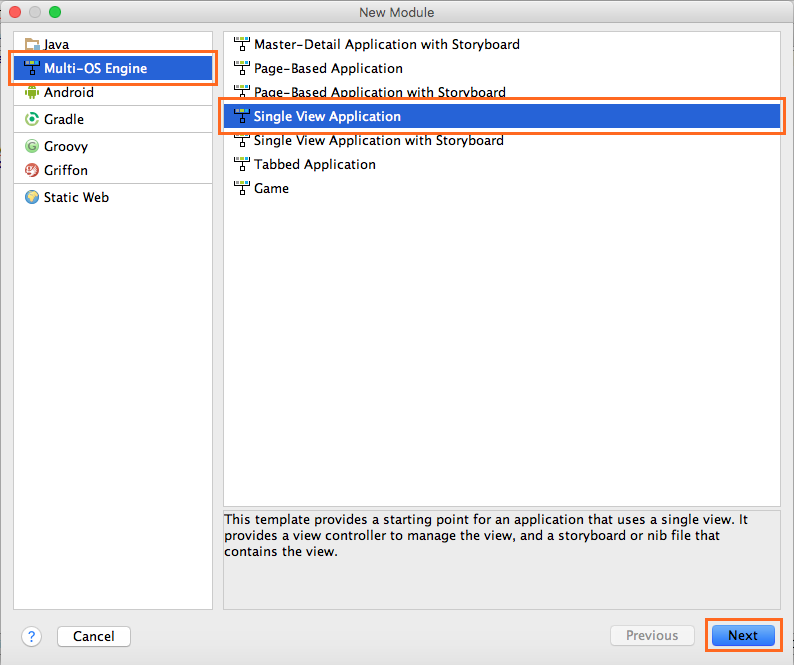
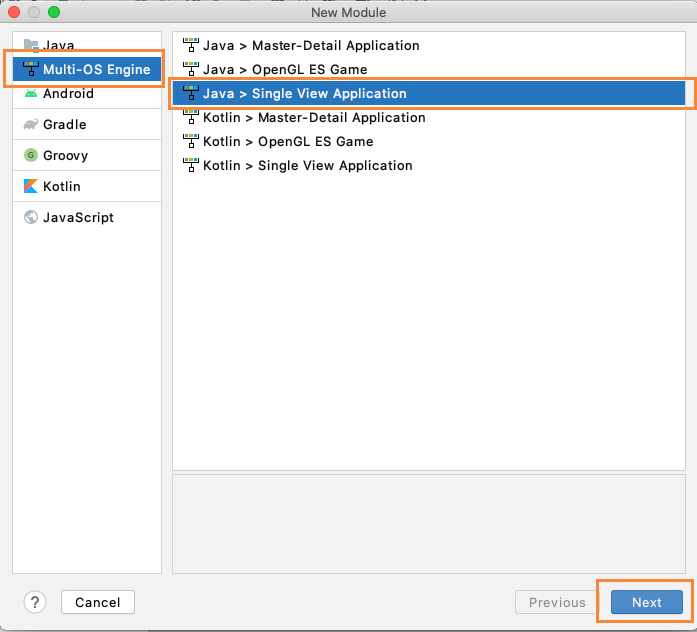
Update instructions of installation and hello world

Changed region(s): [[0.0, 0.0, 1.0, 1.0], [0.241, 0.7215, 0.9641, 0.8418]]

diff --git a/source/multi-os-engine/3_getting_started/1_hello_world_app/hello_world_app.rst b/source/multi-os-engine/3_getting_started/1_hello_world_app/hello_world_app.rst
@@ -57,27 +57,29 @@ Creating an Android App Module
 Creating a Multi-OS Engine App Module
 -------------------------------------
 
-1. Right click anywhere inside the Project tab on the left side. This creates the module in the root of the Android project. Choose New and Multi-OS Engine Module.
+1. Right click anywhere inside the Project tab on the left side. This creates the module in the root of the Android project. Choose New and New Module.
 
 .. image:: images/add_module.png
 
-2. There are seven available templates: 
+.. note::
+
+	If you are using Android Studio and no "New Module" dialog popped up, make sure you did not install any Kotlin plugin update and use the Kotlin plugin bundled with the Android Studio. You could check this by openning the Plugins settings and see if there is Kotlin plugin under the "Downloaded" category. If so, uninstall it and restart the IDE to use the bundled version instead.
+
+    .. image:: images/uninstall_kotlin.png
+
+2. There are six available templates: 
 
 .. image:: images/modules.png
 
 •	Master-Detail Application with storyboard template provides a starting point for a master-detail app. It provides a user interface configured with a navigation controller to display a list of items and also a split view on iPad devices.
-•	Page-Based Application template provides a starting point for a page-based app that uses a page view controller.
-•	Page-Based Application with storyboard template provides a starting point for a page-based app that uses a page view controller.
 •	Single-View Application template provides a starting point for an app that uses a single view. It provides a view controller to manage the view, and a storyboard or nib file that contains the view.
-•	Single-View Application with storyboard template provides a starting point for an app that uses a single view. It provides a view controller to manage the view, and a storyboard or nib file that contains the view.
-•	Tabbed Application template provides a starting point for an app that uses a tab bar. It provides a user interface configured with a tab bar controller, and view controllers for the tab bar items.
 •	Game template provides a starting point for games.
 
-These templates mirror the standard Xcode templates for iOS and have the same names as the corresponding templates in Xcode. Some of these templates use storyboards, while others use a generated storyboard from .ixml files. Using these templates, you can see how your Apple Objective-C* project migrates to a Multi-OS Engine solution: the plug-in replaces all Objective-C components with Java analogues when possible.
+These templates mirror the standard Xcode templates for iOS and have the same names as the corresponding templates in Xcode. Using these templates, you can see how your Apple Objective-C* project migrates to a Multi-OS Engine solution: the plug-in replaces all Objective-C components with Java analogues when possible.
 
 Select the template which fits your needs (such as Single-View Application) and press Next.
 
-3. In the next window, create an Xcode project. After you create the project you can open it in Xcode, for example, if you would like to use an Xcode storyboard to design your native user interface. Specify the Xcode Project Name, Product Name (app name), Organization and Company Identifier.
+3. In the next window, create an Xcode project. After you create the project you can open it in Xcode, for example, if you would like to use an Xcode storyboard to design your native user interface. Specify the Project Name (app name), Package Name (where your Java code belongs to), Organization Name and Identifier.
 
 .. image:: images/xcode_settings.png
 
@@ -168,7 +170,7 @@ Building an IPA is currently possible from the command line using Gradle. In the
 
 The IPA file will be created in the ``build/`` folder.
 
-For more information about the Multi-OS Engine Gradle plugin, please refer to the `plugin documentation <https://github.com/multi-os-engine/moe-plugin-gradle>`_.
+For more information about the Multi-OS Engine Gradle plugin, please refer to the `plugin documentation <https://github.com/multi-os-engine-community/moe-plugin-gradle>`_.
 
 .. toctree::
     :maxdepth: 1

diff --git a/source/multi-os-engine/3_getting_started/1_installation/installation.rst b/source/multi-os-engine/3_getting_started/1_installation/installation.rst
@@ -27,26 +27,14 @@ For the OSS build from GitHub:
 
 .. note::
 
-	The Multi-OS Engine sample location changed for the open source SDK. The `old samples repository <https://github.com/moe-java-samples>`_ is not updated anymore and will not work with the new SDK. You may find the updated samples `here (Java) <https://github.com/multi-os-engine/moe-samples-java>`_ and `here (Kotlin) <https://github.com/multi-os-engine/moe-samples-kotlin>`_.
+	The Multi-OS Engine sample location changed for the open source SDK. The `old samples repository <https://github.com/moe-java-samples>`_ is not updated anymore and will not work with the new SDK. You may find the updated samples `here (Java) <https://github.com/multi-os-engine-community/moe-samples-java>`_ and `here (Kotlin) <https://github.com/multi-os-engine-community/moe-samples-kotlin>`_.
 
 Install Android Studio / IntelliJ IDEA Plugin
 ---------------------------------------------
 
 * Open Android Studio or IntelliJ IDEA
 * Open the Plugins menu in Settings
-* Install the Multi-OS Engine Plugin from the standard plugin repository (just search for it)
-* You can now create your first project, or import a sample. Enjoy!
-
-	* The SDK installation will happen automatically when you create or import your first project.
-
-Install Eclipse Plugin
-----------------------
-
-* Open Eclipse 4.5 (Mars) or later 
-* Click the Install New Software window in the Help menu
-* Add the Multi-OS Engine plugin repository:
-	* ``https://dl.bintray.com/multi-os-engine/eclipse``
-* Install the Multi-OS Engine Plugin from the newly added repository
+* Install the Multi-OS Engine Community Edition plugin from the standard plugin repository (just search for it)
 * You can now create your first project, or import a sample. Enjoy!
 
 	* The SDK installation will happen automatically when you create or import your first project.
@@ -73,19 +61,19 @@ Xcode 8 has more strict requirements with regards to the code signing configurat
 
 Xcode 8 also supports "automatic" signing configuration during development, but at the very least you will have to set your Development Team Id. MOE provides a way to set a default Id in a separate file, so you don't have to edit every project's build.gradle just to try it out.
 
-In order to set the default id, you have to create a file with the path ``${user.home}/.moe/default.properties`` with the following contents:
+In order to set the default id, you have to create a file with the path ``${user.home}/.moe-community/default.properties`` with the following contents:
 
 .. code-block:: text
 
 	developmentTeam=ABCDEFGHIJ
 
-For more details, please refer to the `MOE Gradle Plugin configuration documentation <https://github.com/multi-os-engine/moe-plugin-gradle>`_
+For more details, please refer to the `MOE Gradle Plugin configuration documentation <https://github.com/multi-os-engine-community/moe-plugin-gradle>`_
 
 
 Upgrading from MOE 1.1 or later
 -------------------------------
 
-Upgrading the a new release of the MOE plugin can be done using the standard plugin upgrade procedure inside Android Studio / IntelliJ or Eclipse.
+Upgrading the a new release of the MOE plugin can be done using the standard plugin upgrade procedure inside Android Studio / IntelliJ.
 
 To upgrade a project to use a newer MOE SDK, you need to update the version of the MOE plugin in its ``build.gradle`` file.
 
